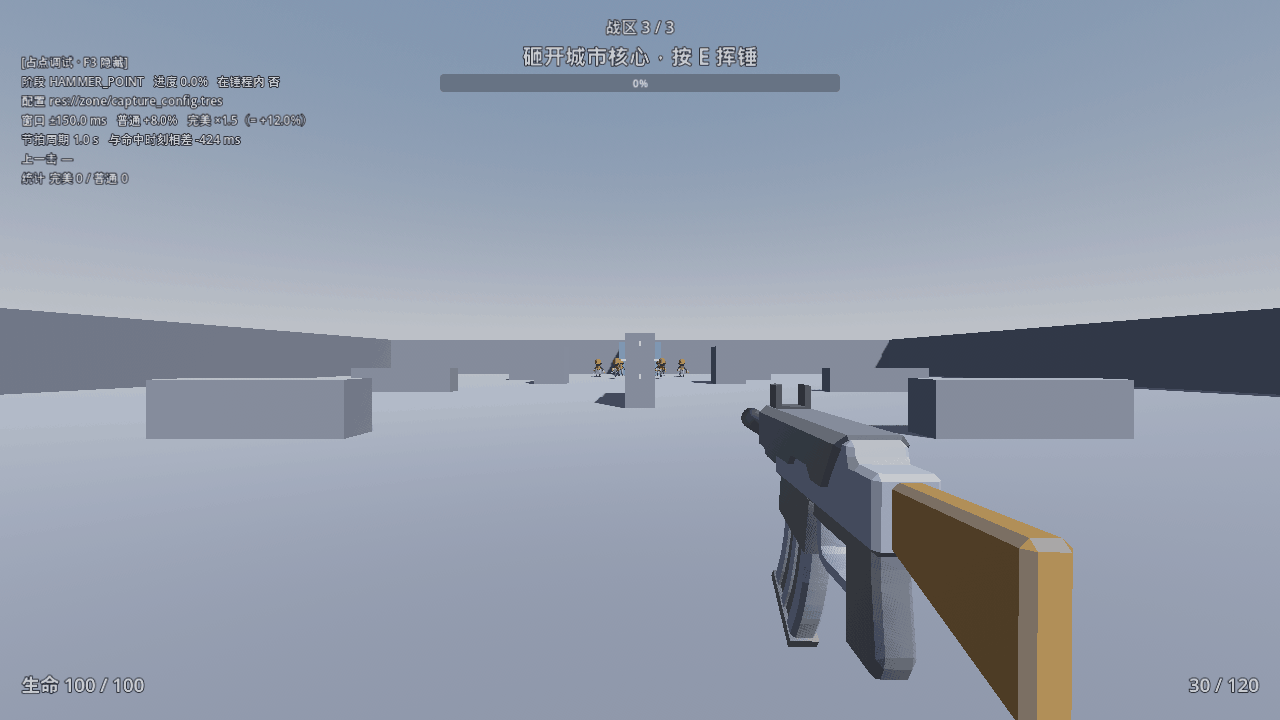
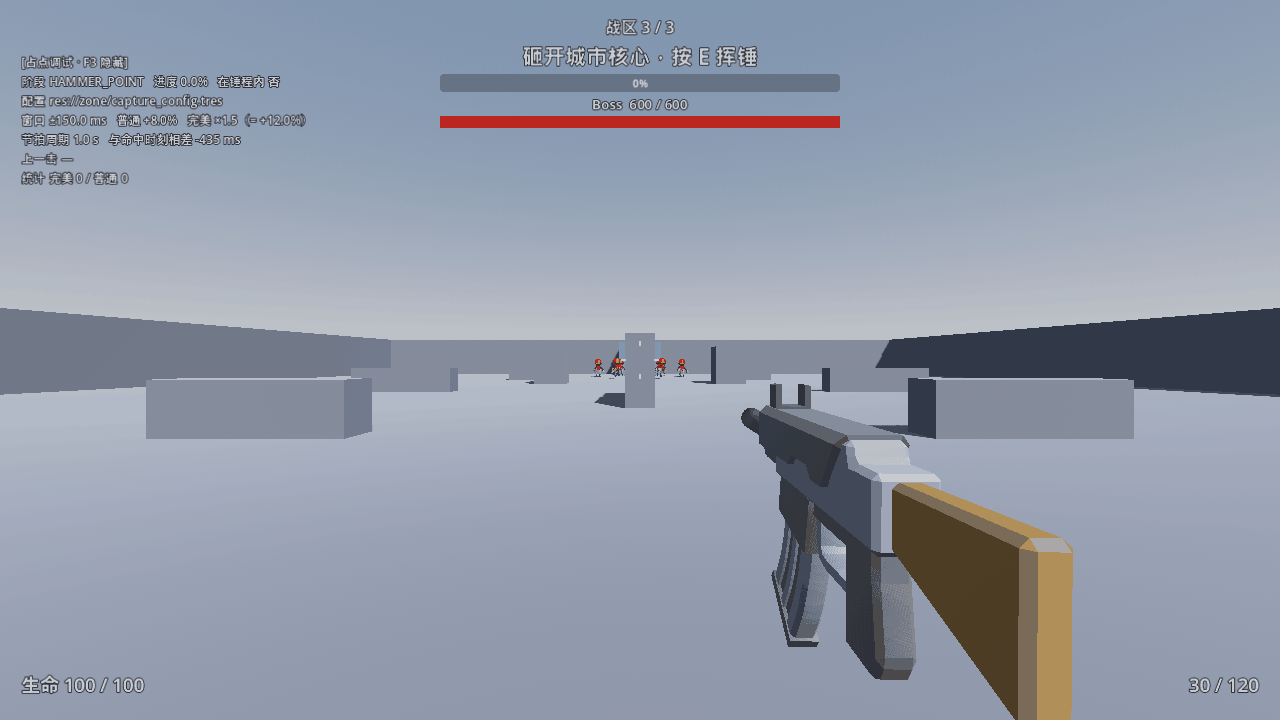
Docs: Boss health bar in ADR 0004, redo Issue #10 proof
Proof screenshots now show the bar full, hit (390 / 600) and fallen,
then the core finished after the boss is dead.

Changed region(s): [[0.3438, 0.1222, 0.6562, 0.1833], [0.1562, 0.1833, 0.1875, 0.2139]]

diff --git a/docs/proof/issue-10/README.md b/docs/proof/issue-10/README.md
@@ -1,6 +1,6 @@
 # Issue #10 Proof（AC-02）
 
-Boss 关：1 个大敌人（Boss）加周围 6 个小敌人，城市核心开局就能砸，占满胜利，阵亡失败。规则和临时数值见 `docs/adr/0004-boss-wave-and-core.md`。
+Boss 关：1 个大敌人（Boss）加周围 6 个小敌人，城市核心开局就能砸，占满胜利，阵亡失败；Boss 有血条。规则和临时数值见 `docs/adr/0004-boss-wave-and-core.md`。
 
 占点配置路径：`zone/capture_config.tres`（窗口 ±150ms、普通 +8%、完美 ×1.5），核心和小关据点用同一份。
 
@@ -14,22 +14,24 @@ godot --path . res://tests/boss_proof.tscn -- --out=<输出目录>
 
 | 文件 | 内容 | 证明 |
 | --- | --- | --- |
-| `01_boss_zone_start.png` | 战区 3 / 3，阶段直接是 `HAMMER_POINT`，目标“砸开城市核心”，没有“先清敌人”的门槛 | 核心开局开放 |
+| `01_boss_zone_start.png` | 战区 3 / 3，阶段直接是 `HAMMER_POINT`，目标“砸开城市核心”，没有“先清敌人”的门槛；进度条下面是满的 Boss 血条 `600 / 600` | 核心开局开放、Boss 血条 |
 | `02_boss_and_six_small.png` | 核心前站着 1 个大号 Boss，周围 6 个小敌人 | 一波的构成 |
 | `03_core_open_enemies_alive.png` | 七个敌人都活着，玩家在核心旁完美打击，进度 +12% | 不需要清零就能砸 |
-| `04_flag_on_core.png` | 进度 100%，阶段 `FLAG_PLANTED`，旗插在核心顶 | 占点完成 |
-| `05_victory.png` | “胜利 / 夺下城市核心，攻下全部 3 个战区” | 胜 |
-| `06_under_fire.png` | 玩家站在离 Boss 约 15 米处不动，受 7 个敌人的火力 | 失败的原因 |
-| `07_defeat.png` | “阵亡 / 倒在第 3 个战区，本局增益已清空” | 负，与胜利是两个不同的结束界面 |
-| `run.log` | 每张截图时的调试条文字，两局的结束界面标题，失败局的死亡用时 | 全部 |
+| `04_boss_bar_hit.png` | 用真实步枪打中 Boss，血条 `390 / 600`，核心进度仍是 12% | 血条随受击下降 |
+| `05_boss_down.png` | Boss 倒地，血条清空，写着“Boss 已倒下”，六个小敌人还站着 | 血条死亡状态 |
+| `06_flag_on_core.png` | Boss 倒下后回到核心砸满：进度 100%，阶段 `FLAG_PLANTED`，旗插在核心顶 | 占点完成，不受 Boss 死亡影响 |
+| `07_victory.png` | “胜利 / 夺下城市核心，攻下全部 3 个战区” | 胜 |
+| `08_under_fire.png` | 玩家站在离 Boss 约 15 米处不动，受 7 个敌人的火力 | 失败的原因 |
+| `09_defeat.png` | “阵亡 / 倒在第 3 个战区，本局增益已清空” | 负，与胜利是两个不同的结束界面 |
+| `run.log` | 每张截图时的调试条文字，射击后 Boss 的血量，两局的结束界面标题，失败局的死亡用时 | 全部 |
 
 每张截图左上角是调试条（F3），写明配置文件路径和三个数。
 
 ## 局限
 
-- **胜利局里敌人被冻结**（`process_mode` 禁用），否则脚本控制的玩家会在砸完前死掉。所以它证明的是“核心不需要清敌人也能砸、占满就胜”，不是“能在交火中砸完”。
-- 胜利局的挥锤是脚本按下 `hammer` 动作（真实输入路径），按命中时刻对齐，所以 9 次全是完美打击。
-- **失败局是真实 AI**：玩家站着不动，7 个敌人自己开火，没有脚本伤害。本次 1.9 秒死亡，之前几次在 1.7–2.6 秒之间。这说明失败可达，同时说明站着不动活不过两三秒，Boss 关强度待试玩确认（见 `TODO.md`）。
+- **胜利局里敌人被冻结**（关掉它们的 AI 处理，碰撞保留，子弹能打中），否则脚本控制的玩家会在砸完前死掉。所以它证明的是“核心不需要清敌人也能砸、占满就胜、血条随真实枪击变化”，不是“能在交火中砸完”。
+- 胜利局的挥锤是脚本按下 `hammer` 动作（真实输入路径），按命中时刻对齐，所以全是完美打击。射击是脚本调用 `Weapon.try_fire()`（真实射线、散布和伤害），瞄准是固定朝向，不是鼠标。
+- **失败局是真实 AI**：玩家站着不动，7 个敌人自己开火，没有脚本伤害。本次 1.8 秒死亡，之前几次在 1.7–2.6 秒之间。这说明失败可达，同时说明站着不动活不过两三秒，Boss 关强度待试玩确认（见 `TODO.md`）。
 - 没有测“玩家在交火中真的占下核心”。这要有人实机玩一遍。
-- Boss、核心、旗都是灰盒占位模型，Boss 没有血条。
+- Boss、核心、旗都是灰盒占位模型。血条是灰盒样式（红条加数字），没有名字、没有分段。
 - 截图为 128 色 PNG（压缩过，天空渐变处可能有轻微色带）。`run.log` 里的截图路径已从临时目录改成仓库内相对路径，其余未改。

diff --git a/docs/adr/0004-boss-wave-and-core.md b/docs/adr/0004-boss-wave-and-core.md
@@ -15,12 +15,13 @@
 3. **站位。** Boss 站在城市核心前约 7.5 米，6 个小敌人围成半径 4 米的圈。玩家出生点在 Boss 正南 45 米。位置由 `tools/gen_zones.py` 的 `BOSS_AT` 和 `RING` 决定。
 4. **城市核心开局就开放**（`ZoneDirector.open_at_start`），阶段直接是 `HAMMER_POINT`。敌人是否清零不影响核心：杀光不会提前结束，也不会回退阶段。
 5. **胜：** 核心 100% → 插旗 → 1.4 秒后弹出胜利界面。Boss 是最后一个战区，所以不选增益。**负：** 玩家死亡 → 阵亡界面，本局清空，回到第 1 关。死后再占满也不会变成胜利。
-6. 核心和小关据点是同一个 `CapturePoint`，共用 `zone/capture_config.tres`，只是更大（4.4 × 3.5 × 4.4 米，锤程半径 4.2 米）。
-7. 实现时顺手堵了一个洞：以前“敌人清零”会无条件把阶段拨回 `HAMMER_POINT`，在 Boss 关里会让已经插旗的阶段倒退。现在只在 `CLEAR_GUARDS` 阶段才算清零。
+6. **Boss 有血条**（Kyrie 2026-10-25 要求）。`Enemy.is_boss` 标出它，`ZoneDirector.boss` 在开局找到它，HUD 在占点进度条下面画红色血条和“Boss 当前 / 最大”，死后显示“Boss 已倒下”。小关没有 Boss，不显示。血条只是显示，不改规则：Boss 倒下不算胜利。
+7. 核心和小关据点是同一个 `CapturePoint`，共用 `zone/capture_config.tres`，只是更大（4.4 × 3.5 × 4.4 米，锤程半径 4.2 米）。
+8. 实现时顺手堵了一个洞：以前“敌人清零”会无条件把阶段拨回 `HAMMER_POINT`，在 Boss 关里会让已经插旗的阶段倒退。现在只在 `CLEAR_GUARDS` 阶段才算清零。
 
 ## 不在这次范围
 
-Boss 血条、Boss 技能或阶段、冲击波、增援、进关选择（AC-04）。核心、Boss 和旗都是灰盒占位模型。
+Boss 技能或阶段、冲击波、增援、进关选择（AC-04）。核心、Boss 和旗都是灰盒占位模型。
 
 ## 后果
 

diff --git a/GLOSSARY.md b/GLOSSARY.md
@@ -36,6 +36,6 @@
 | 九条增益 | 尚未实现 | 每派至少 3 条，共 9 条，图标不同（AC-08）。效果 Design-TBD。占位名见 `docs/bible/03_rules.md`。 |
 | 进关选择 | 尚未实现 | 进入每一关之前选 1 条，含 Boss（AC-04）。 |
 | 关末再选 | 尚未实现 | 小关结束后再选 1 条，本局叠加。Boss 结束后不选（AC-04）。 |
-| Boss 关 / 城市核心 | `maps/boss.tscn`，`ZoneDirector.open_at_start` | 只有一波：1 个大敌人（Boss）加周围 6 个小敌人。城市核心开局就能砸，用同一套 `capture_config.tres`；敌人清不清零都不影响核心。占满即胜，死亡即负（AC-02）。见 ADR 0004。 |
+| Boss 关 / 城市核心 | `maps/boss.tscn`，`ZoneDirector.open_at_start` | 只有一波：1 个大敌人（Boss）加周围 6 个小敌人。城市核心开局就能砸，用同一套 `capture_config.tres`；敌人清不清零都不影响核心。Boss 有血条（HUD，不改胜负）。占满即胜，死亡即负（AC-02）。见 ADR 0004。 |
 | 关卡选择 | 尚未实现 | 只切换已解锁的关。顺序：小关 1 → 小关 2 → Boss。这是规则，不是 AC-01。 |
 | Cut-001b | 文档，不是脚本 | MVP 的 IN/OUT、解锁顺序和 AC-01 至 AC-08。 |
